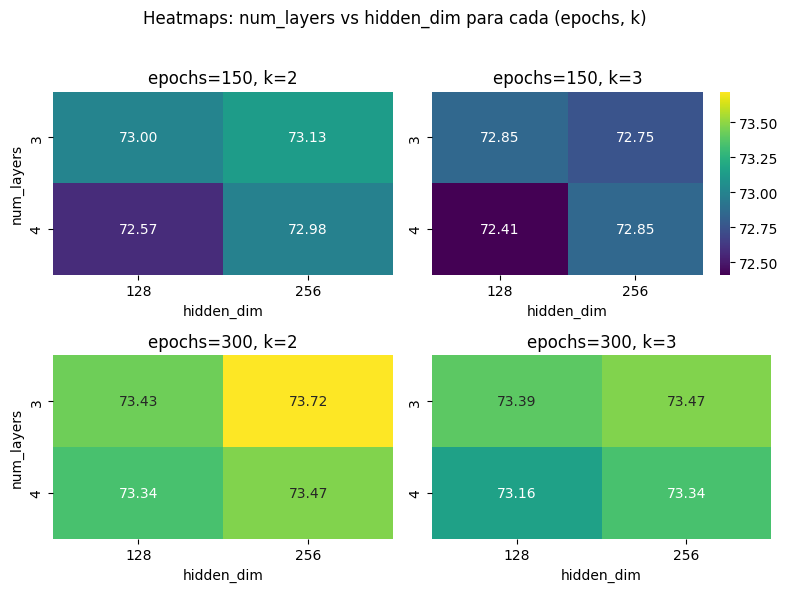
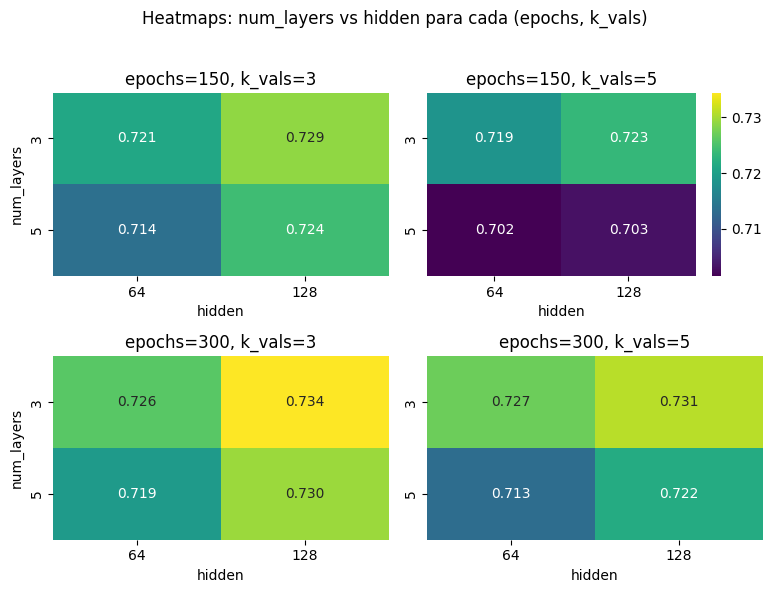
Correcciones y completar GAT

diff --git a/lab5/informe/main.tex b/lab5/informe/main.tex
@@ -74,7 +74,7 @@ Se tiene que $$\mathbf{A} = \begin{bmatrix}
     6 & 7
 \end{bmatrix}$$
 
-por lo que el resultado de la operación manual es
+Por lo que el resultado de la operación manual es
 
 $$\mathbf{Y}_{\text{ref}} = \begin{bmatrix}
     28 & 38 \\
@@ -113,8 +113,8 @@ Los parámetros entrenables de esta red corresponden a los parámetros de los fi
 
 Sin embargo, si cambiáramos el número de nodos en el grafo, el número de parámetros entrenables no se vería afectado, ya que estos dependen únicamente de las dimensiones de las características de entrada y salida y del tamaño del filtro $K$.
 
-\section{GNN sobre \textit{Open Graph Benchmark - ogbn-arxiv}}
-El dataset \textit{ogbn-arxiv} consiste en un grafo de citas entre artículos de arXiv donde cada nodo representa un artículo y cada arista representa una cita entre dos artículos. Cada paper tiene un vector de características de dimensión $d=128$ que representa el promedio de los \textit{embeddings} de texto del título y contenido. Se busca entrenar una GNN para predecir la categoría del artículo (uno entre 40 posibles) a partir de las características de los nodos y la estructura del grafo. Dividimos el dataset en conjuntos de entrenamiento, validación y test, tomando los artículos hasta 2017 para entrenamienot, los de 2018 para validación y los de 2019 para test.
+\section{GCN sobre \textit{Open Graph Benchmark - ogbn-arxiv}}
+El dataset \textit{ogbn-arxiv} consiste en un grafo de citas entre artículos de arXiv donde cada nodo representa un artículo y cada arista representa una cita entre dos artículos. Cada paper tiene un vector de características de dimensión $d=128$ que representa el promedio de los \textit{embeddings} de texto del título y contenido. Se busca entrenar una GNN para predecir la categoría del artículo (uno entre 40 posibles) a partir de las características de los nodos y la estructura del grafo. Dividimos el dataset en conjuntos de entrenamiento, validación y test, tomando los artículos hasta 2017 para entrenamiento, los de 2018 para validación y los de 2019 para test.
 
 Para este problema, se implementó una GNN siguiendo la estructura mostrada en la figura \ref{fig:GNN}. Se realizó un primer entrenamiento durante cien épocas definiendo la red con dos capas, dimensión oculta de 128 y tamaño del filtro $K=1$. El resultado obtenido fue de 69.17\% en el conjunto de test. 
 
@@ -127,10 +127,10 @@ Para este problema, se implementó una GNN siguiendo la estructura mostrada en l
 
 Para mejorar el desempeño del modelo, se realizó un ajuste de hiperparámetros considerando las siguientes opciones:
 \begin{itemize}
-    \item Número de capas: 3, 4.
-    \item Dimensión de las características intermedias: 128, 256.
     \item Número de épocas: 150, 300.
-    \item Tamaño del filtro $K$: 2, 3.
+    \item Tamaño del filtro $K$: 3, 5.
+    \item Número de capas: 3, 5.
+    \item Dimensión de las características intermedias: 64, 128.    
 \end{itemize}
 
 Se muestran en la figura \ref{fig:resultados_arxiv} los resultados obtenidos en el conjunto de validación para las distintas combinaciones de hiperparámetros. Para una representación más clara, se muestran cuatro matrices de confusión donde para cada una se fija el número de épocas y el tamaño del filtro y se varían la dimensión de las características intermedias y el número de capas.
@@ -138,11 +138,11 @@ Se muestran en la figura \ref{fig:resultados_arxiv} los resultados obtenidos en 
 \begin{figure}[htb!]
     \centering
     \includegraphics[width=\textwidth]{imagenes/resultados_arxiv.png}
-    \caption{Resultados obtenidos en el conjunto de test para distintas combinaciones de hiperparámetros.}
+    \caption{Resultados obtenidos en el conjunto de validación para distintas combinaciones de hiperparámetros entrenando el modelo GCN.}
     \label{fig:resultados_arxiv}
 \end{figure}
 
-Se puede observar que los mejores resultados se obtienen entrenando durante 300 épocas con 3 capas, dimensión intermedia de 256 y tamaño del filtro $K=2$. Con esta combinación, el accuracy obtenido en el conjunto de test fue de 71.87\%.
+Se puede observar que los mejores resultados se obtienen entrenando durante 300 épocas con tamaño del filtro $K=3$, dimensión intermedia de 128 y tres capas. Con esta combinación, el accuracy obtenido en el conjunto de test fue de 72.72\%.
 
 \section{Graph Attention}
 
@@ -161,36 +161,45 @@ donde $e$ es la función de scoring definida como
 \begin{equation}
     e(\mathbf{x}_i, \mathbf{x}_j) = \text{LeakyReLU}(a^T[\mathbf{H}\mathbf{x}_i||\mathbf{H}\mathbf{x}_j]) 
 \end{equation}
-La ventaja de introduida por esta arquitectura esta en la posiblidad de dar importancia a los vecinos de 
+La ventaja introducida por esta arquitectura está en la posibilidad de dar importancia a los vecinos de 
 forma diferenciada y dinámica, es decir, en función de la entrada. Cada vecino tiene un peso diferente 
 calculado en función de la entrada, con el cual se pondera el valor del vecino al hacer el message passing.
 
 \begin{figure}[htb!]
     \centering
-    \includegraphics[width=\textwidth]{imagenes/resultados_gat.png}
-    \caption{Resultados obtenidos en el conjunto de test para distintas combinaciones de hiperparámetros.}
+    \includegraphics[width=0.8\textwidth]{imagenes/resultados_gat.png}
+    \caption{Resultados obtenidos en el conjunto de validación para distintas combinaciones de hiperparámetros entrenando el modelo GAT.}
     \label{fig:resultados_arxiv_gat}
 \end{figure}
 
 Al replicar el modelo de la sección anterior cambiando las capas GCN por capas GAT, obtenemos los resultados
-de la figura~\ref{fig:resultados_arxiv_gat}. Comparando con al figura~\ref{fig:resultados_arxiv}, vemos que
-no hay una mejora significativa en el desempeño del modelo, aunque hay que destacar que el modelo trabaja
-con dimensiones ocultas más pequeñas. Tampoco se realizo una busqueda de hiperparámetros exhaustiva, por
-lo que no es posible afirmar por una u otra.
+de la figura~\ref{fig:resultados_arxiv_gat}. Por capacidad de memoria no pudimos probar distintos tamaños del filtro, fijando el mismo en $K=1$. Además, debimos reducir el número de capas de la red y las dimensiones ocultas, aunque logramos considerar la combinación que dio mejores resultados con el modelo GCN. Comparando con la figura~\ref{fig:resultados_arxiv}, vemos que no mejora el desempeño del modelo. Sin embargo, se puede notar que la mejor performance se obtiene con el modelo GAT más grande que se puede conseguir con estas combinaciones de hiperparámetros, por lo que de tener capacidad de cómputo para generar un modelo más grande se puede suponer que el desempeño mejoraría.
+El mejor resultado en este caso se obtuvo entrenando durante 300 épocas, con cuatro capas y 128 dimensiones intermedias, alcanzando un accuracy de 69.5\% en el conjunto de test.
 
 \subsection{Graph Attention v2}
 
-La implementación inicial de Graph Attention~\cite{velickovic_graph_2018} esta límitad en el sentido que
-es una atención estática. Es decir, dado un nodo (query), el orden solo depende de los valores de los
-vecinos (keys).
+La implementación inicial de Graph Attention~\cite{velickovic_graph_2018} está limitada en el sentido que
+es una atención estática. Es decir, dado un nodo (\textit{query}), el orden solo depende de los valores de los vecinos (\textit{keys}).
 
 La solución a este problema se encuentra en el paper~\cite{brody2022attentivegraphattentionnetworks}, donde se propone el \emph{Graph Attention Network v2} (GATv2). Este modelo es una extensión de la arquitectura GAT que permite una atención dinámica. El cambio se da en la función de scoring, que pasa a ser:
 
 \begin{equation}
     e(\mathbf{x}_i, \mathbf{x}_j) = a^T\text{LeakyReLU}(\mathbf{W}[\mathbf{x}_i||\mathbf{x}_j]) = a^T\text{LeakyReLU}(\mathbf{W}_1\mathbf{x}_i + \mathbf{W}_2\mathbf{x}_j)  
 \end{equation}
-Es decir, en vez de ser un único filtro lineal, se divide en un filtro para cada nodo (query) y uno los vecinos (key). A su vez, se aplica la capa de atención luego de la no linealidad, lo que evita que toda la
-operación se pueda simplificar a una transformación lineal.
+
+Es decir, en vez de ser un único filtro lineal, se divide en un filtro para cada nodo (query) y uno para los vecinos (key). A su vez, se aplica la capa de atención luego de la no linealidad, lo que evita que toda la operación se pueda simplificar a una transformación lineal.
+
+Al replicar el modelo de la sección anterior cambiando las capas GAT por capas GATv2, obtenemos los resultados
+de la figura~\ref{fig:resultados_arxiv_gatv2}. La búsqueda de hiperparámetros se realizó tomando los mismos valores que para el modelo GAT.
+
+\begin{figure}[htb!]
+    \centering
+    \includegraphics[width=0.8\textwidth]{imagenes/resultados_gatv2.png}
+    \caption{Resultados obtenidos en el conjunto de validación para distintas combinaciones de hiperparámetros entrenando el modelo GATv2.}
+    \label{fig:resultados_arxiv_gatv2}
+\end{figure}
+
+Nuevamente, el mejor resultado se obtuvo entrenando durante 300 épocas, con cuatro capas y 64 dimensiones intermedias. Comparando con la figura ~\ref{fig:resultados_arxiv_gat}, vemos que el desempeño del modelo mejora. El accuracy obtenido en el conjunto de test fue de 70.94\%.
 
 \FloatBarrier
 \bibliography{refs.bib}
